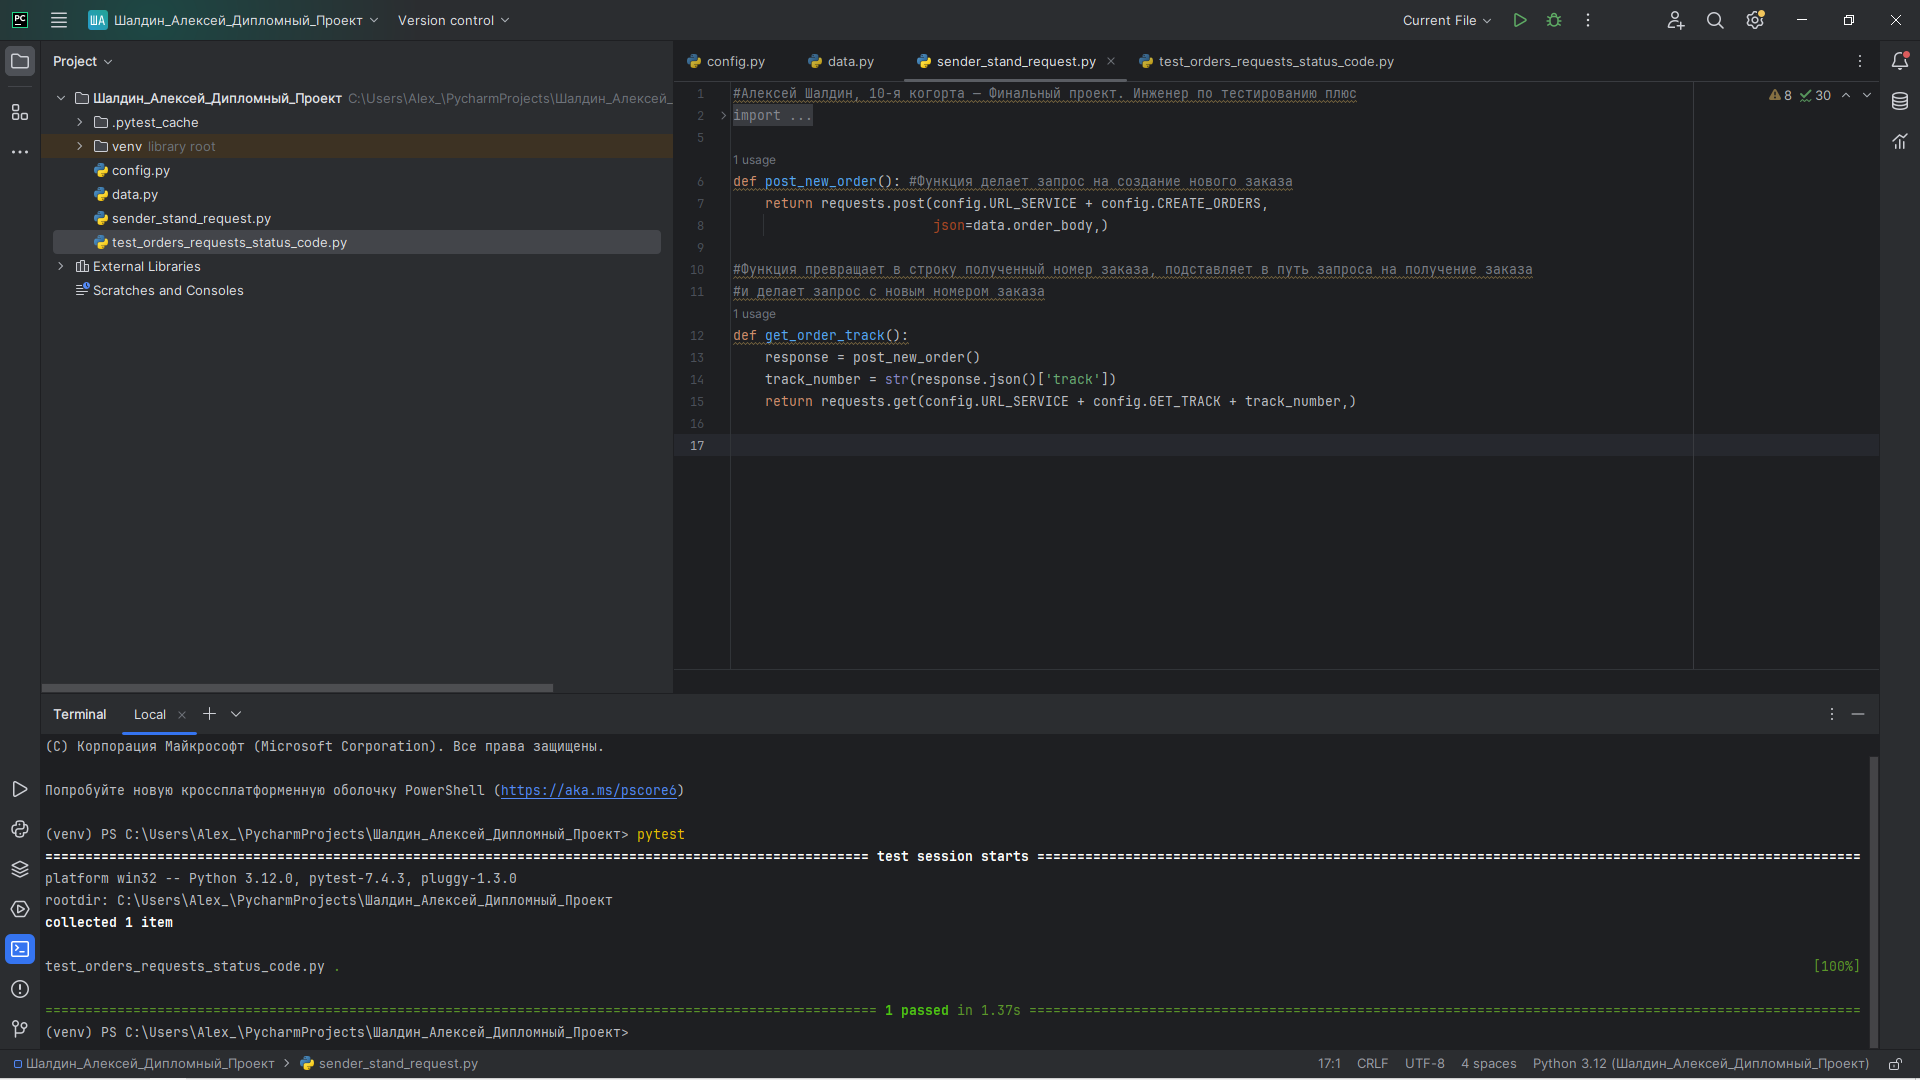
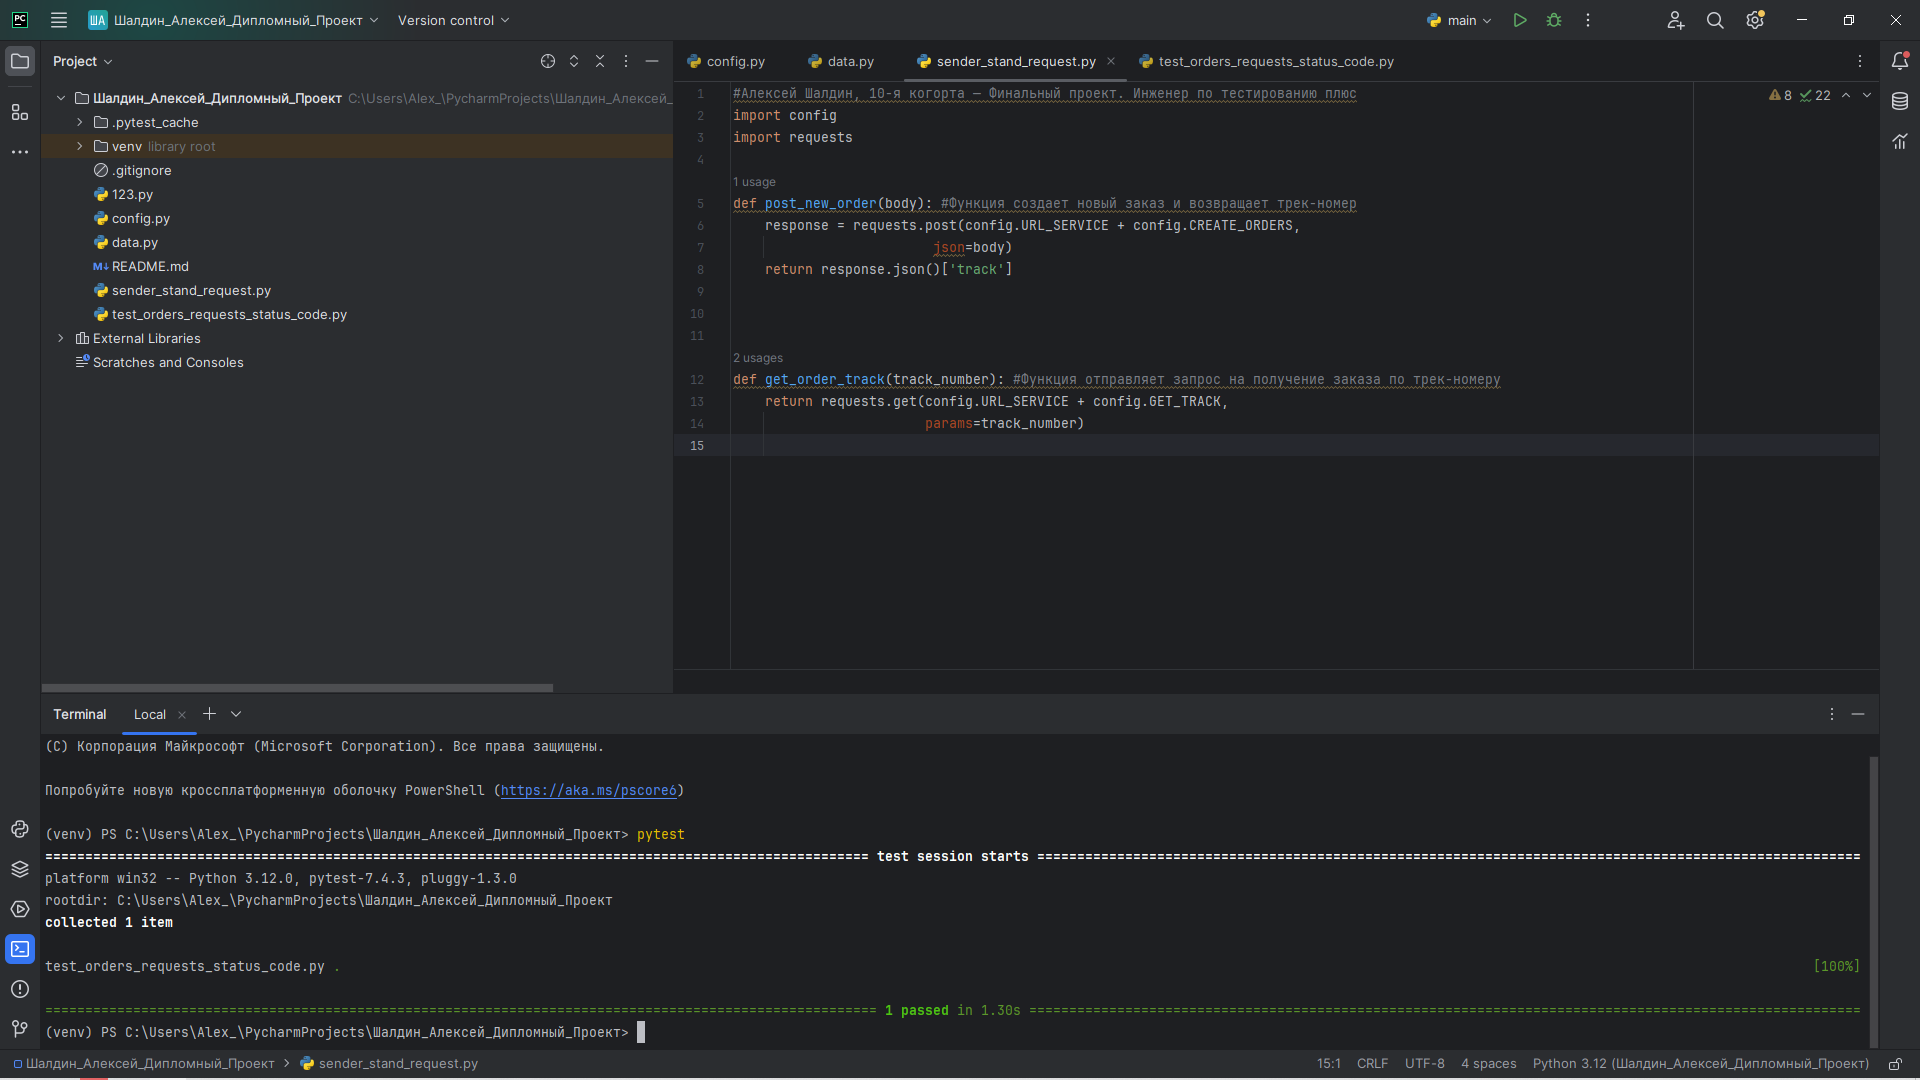
Исправления

Changed region(s): [[0.375, 0.0917, 0.8125, 0.3972], [0.0312, 0.1528, 0.3438, 0.3361], [0.7188, 0.0, 0.7812, 0.0306]]

diff --git a/sender_stand_request.py b/sender_stand_request.py
@@ -1,16 +1,14 @@
 #Алексей Шалдин, 10-я когорта — Финальный проект. Инженер по тестированию плюс
 import config
 import requests
-import data
 
-def post_new_order(): #Функция делает запрос на создание нового заказа
-    return requests.post(config.URL_SERVICE + config.CREATE_ORDERS,
-                         json=data.order_body,)
+def post_new_order(body): #Функция создает новый заказ и возвращает трек-номер
+    response = requests.post(config.URL_SERVICE + config.CREATE_ORDERS,
+                         json=body)
+    return response.json()['track']
 
-#Функция превращает в строку полученный номер заказа, подставляет в путь запроса на получение заказа
-#и делает запрос с новым номером заказа
-def get_order_track():
-    response = post_new_order()
-    track_number = str(response.json()['track'])
-    return requests.get(config.URL_SERVICE + config.GET_TRACK + track_number,)
 
+
+def get_order_track(track_number): #Функция отправляет запрос на получение заказа по трек-номеру
+    return requests.get(config.URL_SERVICE + config.GET_TRACK,
+                        params=track_number)

diff --git a/test_orders_requests_status_code.py b/test_orders_requests_status_code.py
@@ -1,8 +1,17 @@
 #Алексей Шалдин, 10-я когорта — Финальный проект. Инженер по тестированию плюс
 import sender_stand_request
+import data
 
-#Функция для проверки, что при получении заказа по номеру статус ответа 200
-def test_request_status_code_new_order():
-    order_response = sender_stand_request.get_order_track()
+#Позитивная проверка.
+#Функция создает заказ, забирает трек-номер и передает его на получение заказа по трек-номеру
+#проверяет что код ответа 200
+def positive_assert(body):
+    track = sender_stand_request.post_new_order(body)
+    track_number = {'t': track}
+    order_response = sender_stand_request.get_order_track(track_number)
 
     assert order_response.status_code == 200
+
+#Тест 1. успешное получение заказа по трек-номеру
+def test_request_status_code_new_order():
+    positive_assert(data.order_body)

diff --git a/config.py b/config.py
@@ -1,4 +1,4 @@
-URL_SERVICE = "https://d9df62d6-9615-4acb-a902-0e6dad0f30fa.serverhub.praktikum-services.ru"
+URL_SERVICE = "https://48b3c63c-93e4-424b-ad4c-b168b8b1d9ca.serverhub.praktikum-services.ru"
 DOC_PATH = "/docs/"
 CREATE_ORDERS = "/api/v1/orders"
-GET_TRACK = "/api/v1/orders/track?t="
+GET_TRACK = "/api/v1/orders/track"
